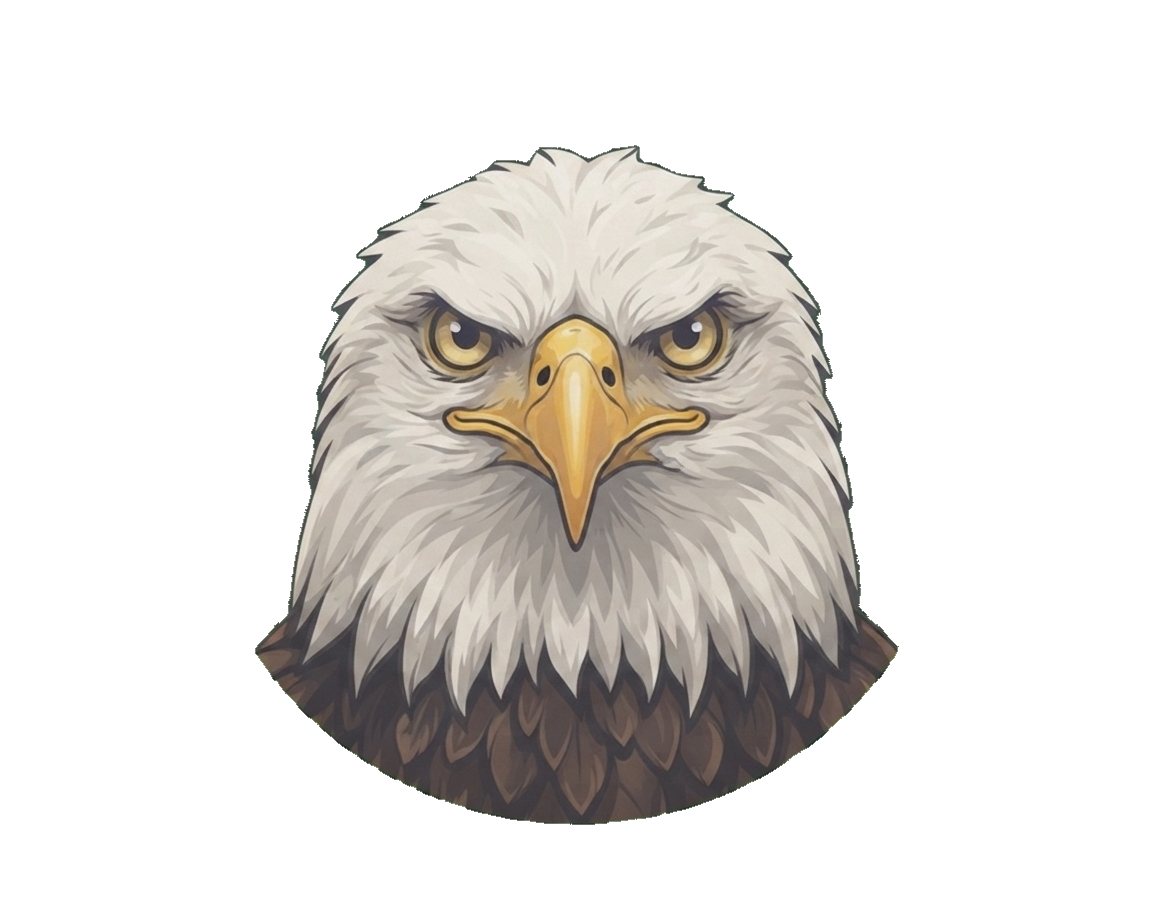
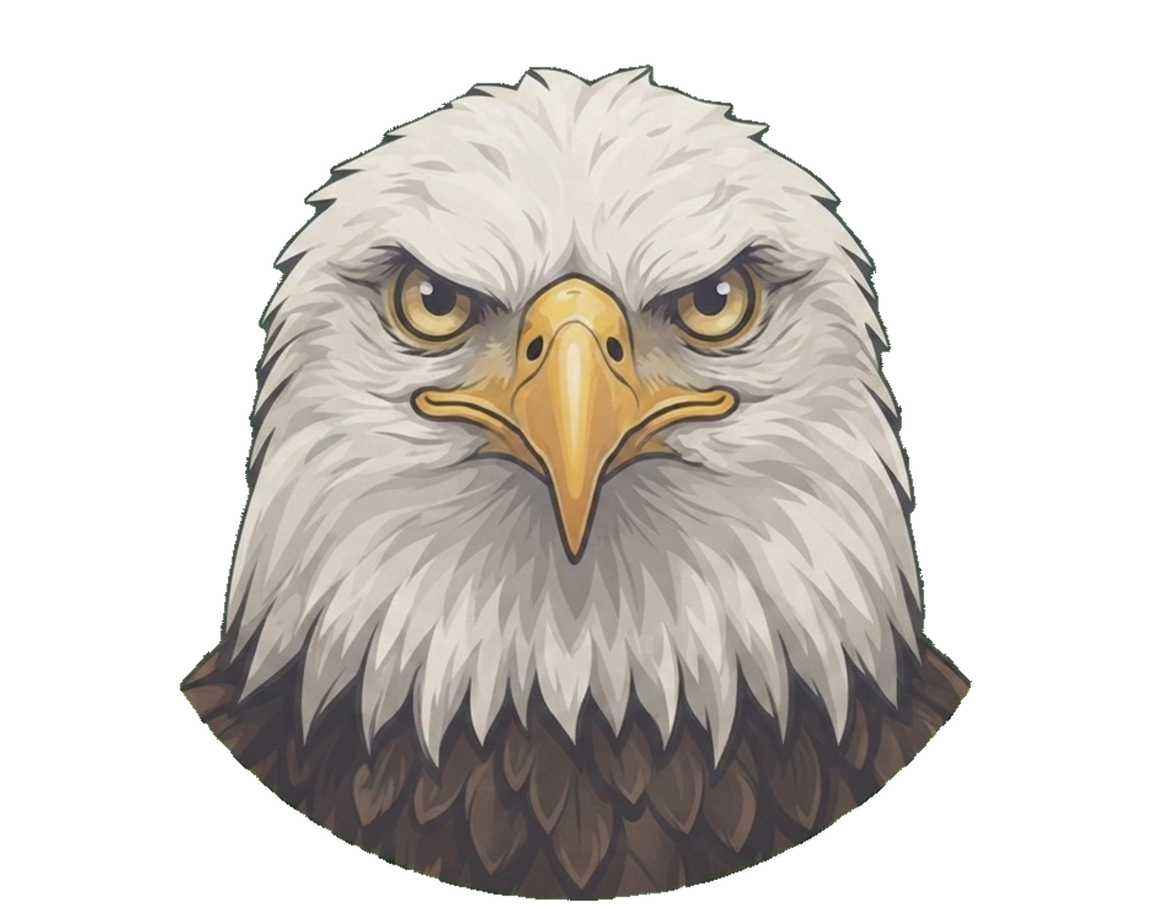
fix(stage9): 老鷹頭像放大 23% + 死神之眼提示改停 6 秒
- 老鷹頭像:從原始母檔放大 23%、主體下緣貼底,填滿程度跟北極熊/貓頭鷹一致(寬 69% 高 92%)
- 死神之眼提示總長 6 秒(爆破維持 5 秒):用卡方、被看方,單機與連線 host/guest 都一樣
  (原本用卡方只有一般的 3 秒,前段又被眼睛動畫擋住,幾乎看不到)

diff --git a/src/net/netgame.ts b/src/net/netgame.ts
@@ -20,7 +20,7 @@ import {
 import { useAppStore } from '../state/appStore'
 import { useNetStore } from '../state/netStore'
 import { usePlatformStore } from '../state/platformStore'
-import { useGameStore, specExtrasOf, DEATH_EYE_VICTIM_MSG, EXPLODE_NOTICE_MS, type HostSnapshot, type PauseState, type EmoteMsg } from '../state/gameStore'
+import { useGameStore, specExtrasOf, DEATH_EYE_NOTICE_MS, DEATH_EYE_VICTIM_MSG, EXPLODE_NOTICE_MS, type HostSnapshot, type PauseState, type EmoteMsg } from '../state/gameStore'
 import { serializeForGuest, deserializeForGuest, type Intent, type LiveSel, type SyncGame } from './sync'
 import { startBroadcast, type Broadcaster } from './broadcast'
 import { patchLivePlayerRecord, type LivePlayer } from './liveIndex'
@@ -336,7 +336,7 @@ function _attachHost(code: string, opts?: AttachOpts): () => void {
         const n = Date.now()
         useGameStore.setState({ engine: next, specFx: { by: 'p2', card: 'deathEye', n }, deathEyeFx: { target: 'p1', slots, n } })
         useGameStore.getState().recordMove({ t: 'special', by: 'p2', card: 'deathEye' })
-        useGameStore.getState().flashStatus(DEATH_EYE_VICTIM_MSG, EXPLODE_NOTICE_MS)
+        useGameStore.getState().flashStatus(DEATH_EYE_VICTIM_MSG, DEATH_EYE_NOTICE_MS)
       } else {
         // peek/spy: compute the guest's private result + push to its info channel.
         const cards = intent.card === 'peek' ? peekNextDraw(e, 'p2') : e.hands.p1
@@ -485,8 +485,8 @@ function _attachGuest(code: string, opts?: AttachOpts): () => void {
       return
     }
     const fx = snap.val() as { msg?: string; card?: SpecialCardId; target?: 'p1' | 'p2'; victim?: Card; index?: number; slots?: number[]; id?: number } | null
-    const longNotice = fx?.card === 'explode' || fx?.card === 'deathEye'
-    if (fx?.msg) useGameStore.getState().flashStatus(fx.msg, longNotice ? EXPLODE_NOTICE_MS : undefined)
+    const noticeMs = fx?.card === 'explode' ? EXPLODE_NOTICE_MS : fx?.card === 'deathEye' ? DEATH_EYE_NOTICE_MS : undefined
+    if (fx?.msg) useGameStore.getState().flashStatus(fx.msg, noticeMs)
     const n = fx?.id ?? Date.now()
     // host 對我(guest)用了死神之眼 → 播透視動畫(我那幾堆翻開;翻開狀態由 guest-view 同步過來)
     if (fx?.card === 'deathEye') useGameStore.setState({ deathEyeFx: { target: fx.target ?? 'p2', slots: fx.slots ?? [], n } })

diff --git a/src/state/gameStore.ts b/src/state/gameStore.ts
@@ -153,6 +153,9 @@ export const EXPLODE_NOTICE_MS = 5000
 export const EXPLODE_FX_MS = 3400
 /** 死神之眼動畫總長(ms):眼睛張開閃光 → 蓋牌依序翻開。AI 用完也等播完才出牌。 */
 export const DEATH_EYE_FX_MS = 3200
+/** 死神之眼提示停留時間(使用者 2026-10-16:總長 6 秒,比爆破多 1 秒——前段被動畫擋住,多留一點時間讀)。
+ *  用卡方、被看方都用這個。 */
+export const DEATH_EYE_NOTICE_MS = 6000
 /** 死神之眼的提示文字(使用者定)。 */
 export const DEATH_EYE_VICTIM_MSG = '對手用了死神之眼，你目前決鬥區的牌被看光了'
 
@@ -1569,7 +1572,7 @@ export const useGameStore = create<GameStore>((set, get) => ({
       if (online?.role === 'guest') {
         online.send({ type: 'special', card: id })
         set({ deathEyeFx: { target: foe, slots, n } }) // 本機先播;翻開的牌等 host 同步過來
-        get().flashStatus(`你用「${def.name}」透視了對手目前決鬥區的牌`)
+        get().flashStatus(`你用「${def.name}」透視了對手目前決鬥區的牌`, DEATH_EYE_NOTICE_MS)
         return
       }
       const next = applyDeathEye(engine, me)
@@ -1578,7 +1581,7 @@ export const useGameStore = create<GameStore>((set, get) => ({
       _bcast?.onEngine(next)
       pushCasualExtras()
       persistLocalMatch(get())
-      get().flashStatus(`你用「${def.name}」透視了對手目前決鬥區的牌`)
+      get().flashStatus(`你用「${def.name}」透視了對手目前決鬥區的牌`, DEATH_EYE_NOTICE_MS)
       if (online?.role === 'host') online.sendFx(DEATH_EYE_VICTIM_MSG, { card: id, target: foe, slots })
     } else if (online?.role === 'guest') {
       // peek / spy online: the host holds the truth → ask it; the result comes
@@ -1707,7 +1710,7 @@ export const useGameStore = create<GameStore>((set, get) => ({
             : decision.card === 'deathEye'
               ? DEATH_EYE_VICTIM_MSG
               : '對方似乎使用了特殊牌',
-      decision.card === 'explode' || decision.card === 'deathEye' ? EXPLODE_NOTICE_MS : undefined,
+      decision.card === 'explode' ? EXPLODE_NOTICE_MS : decision.card === 'deathEye' ? DEATH_EYE_NOTICE_MS : undefined,
     )
     return true
   },
